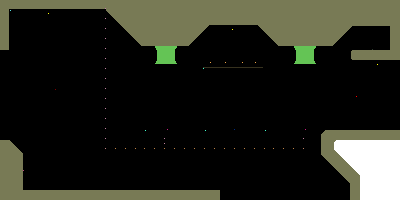
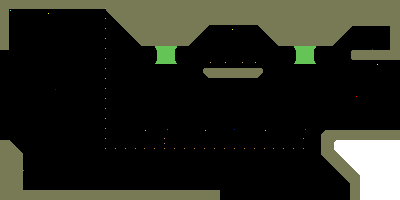
replace vault h potion platform

Changed region(s): [[0.51, 0.33, 0.66, 0.39]]

diff --git a/changelog.md b/changelog.md
@@ -5,6 +5,7 @@
 - Remote Alchemy Labs for areas outside the main descent, which do not have pixel scenes, look for the entryways where chests might spawn. Frequency of appearance has a separate setting.
 - Progression tracking. Formulas will be simplified the first time encountered, and the obscurity will be limited by the total number solved. (Master alchemists can disable this in settings.)
 - Rework on Hisii vertical; removed a cauldron to make space for sheltered potion storage.
+- Change vault horizontal potion platfrom from catwalk to solid to try and reduce breakage.
 - Tweaked cloth (pouches) to not conduct electricity. An alchemist who takes the Electicity perk will probably still have a bad day, buty at least you can use pouches now.
 - Put lab decoration on a delay to try and give terrain a chance to spawn in.
 - Added smoke to make torches more visible

diff --git a/notes.md b/notes.md
@@ -3,7 +3,6 @@
   - x breakage problems - extended delay
   - x exit detection?
 - common breakage
-  - vault h
   - snowcave hand spots?
 - changlog update
 - steel cauldrons?
